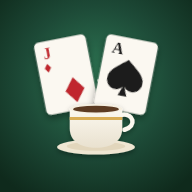
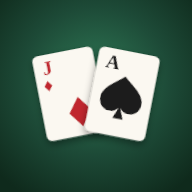
Kartat ma te mdha, 5 stile zanash, ikona pa kafe

Changed region(s): [[0.1562, 0.1562, 0.8438, 0.8125]]

diff --git a/index.html b/index.html
@@ -28,7 +28,7 @@
   --paper:#f5eedd; --paper-ink:#221d14; --paper-line:#d9ccb0; --paper-muted:#6f644d; --danger:#a3141e;
   --ui:'Rubik', system-ui, -apple-system, sans-serif;
   --display:'Fraunces', Georgia, serif;
-  --cw: clamp(54px, 15.5vw, 92px);
+  --cw: clamp(62px, 18vw, 106px);
   --ch: calc(var(--cw) * 1.42);
   color-scheme: dark;
   /* card theme tokens (overwritten by the chosen deck) */
@@ -128,6 +128,7 @@ label.srow{cursor:pointer}
 .sw:checked::after{transform:translateX(18px)}
 .sw:focus-visible{outline:2px solid var(--paper-ink); outline-offset:2px}
 .seg{display:flex; background:#e8dec6; border-radius:999px; padding:3px; gap:2px; flex:none}
+.seg.wrap{flex-wrap:wrap; border-radius:14px; width:100%}
 .seg button{font:600 12.5px var(--ui); border:0; border-radius:999px; padding:7px 11px; background:transparent; color:var(--paper-muted); cursor:pointer}
 .seg button.on{background:var(--paper); color:var(--paper-ink); box-shadow:0 1px 3px rgba(0,0,0,.12)}
 .acc-head{display:flex; align-items:center; justify-content:space-between; gap:10px; flex-wrap:wrap; margin-bottom:10px}
@@ -512,8 +513,10 @@ table.tally{width:100%; border-collapse:collapse; font-variant-numeric:tabular-n
 
     <div class="sgroup">
       <h3>Zëri</h3>
-      <label class="srow" for="sSound"><span><b>Tingujt</b><small>Kartat, çipat, radha jote</small></span><input type="checkbox" class="sw" id="sSound"></label>
+      <label class="srow" for="sSound"><span><b>Tingujt</b><small>Kartat, radha jote</small></span><input type="checkbox" class="sw" id="sSound"></label>
       <div class="srow"><label for="sVol"><b>Volumi</b></label><input type="range" id="sVol" min="0" max="100" step="5"></div>
+      <div class="srow"><span><b>Stili i tingujve</b><small>Si tingëllojnë kartat</small></span></div>
+      <div class="seg wrap" id="sSoundStyle" role="radiogroup" aria-label="Stili i tingujve"></div>
     </div>
 
     <div class="sgroup">
@@ -644,20 +647,38 @@ window.addEventListener('offline', () => { NET.net = false; if (APP.screen==='ga
 window.addEventListener('online', () => { NET.net = true; if (APP.screen==='game') render(); toast('Lidhja me internetin u rikthye.'); });
 
 /* ================= settings ================= */
-const SET = {sound:true, vol:70, hints:true, anim:true, level:'normal', rounds:5};
+const SET = {sound:true, vol:70, soundStyle:'classic', hints:true, anim:true, level:'normal', rounds:5};
 try{ Object.assign(SET, JSON.parse(localStorage.getItem('pishpirik-settings')||'{}')); }catch(e){}
 function saveSet(){ try{ localStorage.setItem('pishpirik-settings', JSON.stringify(SET)); }catch(e){} }
+function buildSoundStyles(){
+  $('sSoundStyle').replaceChildren(...SND_STYLES.map(s=>{
+    const b=document.createElement('button'); b.type='button'; b.textContent=s.nm; b.dataset.v=s.id; b.setAttribute('role','radio');
+    b.onclick=()=>{ SET.soundStyle=s.id; saveSet(); syncSetUI(); sfx.deal(); };
+    return b;
+  }));
+}
 function syncSetUI(){
   $('sSound').checked = SET.sound; $('sVol').value = SET.vol; $('sVol').disabled = !SET.sound;
   $('sHints').checked = SET.hints; $('sAnim').checked = SET.anim;
   document.querySelectorAll('#sLevel button').forEach(b=>{ const on=b.dataset.v===SET.level; b.classList.toggle('on', on); b.setAttribute('aria-checked', on); });
+  document.querySelectorAll('#sSoundStyle button').forEach(b=>{ const on=b.dataset.v===SET.soundStyle; b.classList.toggle('on', on); b.setAttribute('aria-checked', on); });
 }
 function openSettings(){ syncSetUI(); renderAccount(); $('setOv').hidden=false; }
 
 /* ================= sounds: real card physics, synthesised (no files) =================
    Every sound is built from filtered noise the way paper cards actually sound:
-   a sharp paper "snap" on top, a muffled thud of the felt underneath, a soft slide before it. */
-const SND = {ctx:null, out:null, bus:null, noise:null};
+   a sharp paper "snap" on top, a muffled thud of the felt underneath, a soft slide before it.
+   SND_STYLES reshapes the same physics into 5 different characters, so there's no separate
+   sound design to keep in sync — each style is just the master filter, room and pitch changed. */
+const SND_STYLES = [
+  {id:'classic', nm:'Klasike',  pitch:1,    bright:7000,  room:.14, gain:1},
+  {id:'soft',    nm:'Të buta',  pitch:.86,  bright:3400,  room:.24, gain:.85},
+  {id:'crisp',   nm:'Kristal',  pitch:1.18, bright:12000, room:.07, gain:1.05},
+  {id:'arcade',  nm:'Arkade',   pitch:1.34, bright:9500,  room:.025, gain:1.15},
+  {id:'quiet',   nm:'Minimale', pitch:.97,  bright:5200,  room:.05, gain:.55},
+];
+const sndStyle = () => SND_STYLES.find(s=>s.id===SET.soundStyle) || SND_STYLES[0];
+const SND = {ctx:null, out:null, bus:null, noise:null, felt:null, wet:null, pitch:1, gain:1};
 function ac(){
   if (!SET.sound || !SET.vol) return null;
   try{
@@ -671,17 +692,22 @@ function ac(){
       SND.out = c.createGain();
       const comp = c.createDynamicsCompressor(); comp.threshold.value=-14; comp.ratio.value=4;
       const felt = c.createBiquadFilter(); felt.type='lowpass'; felt.frequency.value=7000; felt.Q.value=.5;
+      SND.felt = felt;
       SND.bus = c.createGain();
       const room = c.createConvolver(), irLen = Math.floor(c.sampleRate*.28);
       const ir = c.createBuffer(2, irLen, c.sampleRate);
       for (let ch=0; ch<2; ch++){ const x=ir.getChannelData(ch); for (let i=0;i<irLen;i++) x[i]=(Math.random()*2-1)*Math.pow(1-i/irLen, 3.2); }
       room.buffer = ir;
       const wet = c.createGain(); wet.gain.value = .14;
+      SND.wet = wet;
       SND.bus.connect(felt); felt.connect(comp);
       SND.bus.connect(room); room.connect(wet); wet.connect(comp);
       comp.connect(SND.out); SND.out.connect(c.destination);
     }
     if (SND.ctx.state==='suspended') SND.ctx.resume();
+    const st = sndStyle();
+    SND.felt.frequency.value = st.bright; SND.wet.gain.value = st.room;
+    SND.pitch = st.pitch; SND.gain = st.gain;
     SND.out.gain.value = Math.pow(SET.vol/100, 1.4) * 1.1;
     return SND.ctx;
   }catch(e){ return null; }
@@ -690,13 +716,13 @@ const rnd = (a,b) => a + Math.random()*(b-a);
 // one burst of filtered noise with attack/decay envelope
 function grain(c, t, {type='bandpass', f=2000, f2=null, q=.8, att=.002, dec=.04, g=.5, pan=0}){
   const src = c.createBufferSource(); src.buffer = SND.noise;
-  src.playbackRate.value = rnd(.85, 1.15);
+  src.playbackRate.value = rnd(.85, 1.15) * SND.pitch;
   const flt = c.createBiquadFilter(); flt.type = type; flt.Q.value = q;
-  flt.frequency.setValueAtTime(f, t);
-  if (f2) flt.frequency.exponentialRampToValueAtTime(f2, t+att+dec);
+  flt.frequency.setValueAtTime(f * SND.pitch, t);
+  if (f2) flt.frequency.exponentialRampToValueAtTime(f2 * SND.pitch, t+att+dec);
   const env = c.createGain();
   env.gain.setValueAtTime(0.0001, t);
-  env.gain.exponentialRampToValueAtTime(g, t+att);
+  env.gain.exponentialRampToValueAtTime(g * SND.gain, t+att);
   env.gain.exponentialRampToValueAtTime(0.0001, t+att+dec);
   let node = env;
   if (c.createStereoPanner && pan){ const p=c.createStereoPanner(); p.pan.value=pan; env.connect(p); node=p; }
@@ -706,8 +732,9 @@ function grain(c, t, {type='bandpass', f=2000, f2=null, q=.8, att=.002, dec=.04,
 // a low "knock" of a card or knuckle meeting the table
 function thud(c, t, g=.4, f=110){
   const o=c.createOscillator(), e=c.createGain();
+  f *= SND.pitch;
   o.type='sine'; o.frequency.setValueAtTime(f*1.6, t); o.frequency.exponentialRampToValueAtTime(f, t+.04);
-  e.gain.setValueAtTime(0.0001,t); e.gain.exponentialRampToValueAtTime(g, t+.003); e.gain.exponentialRampToValueAtTime(0.0001, t+.09);
+  e.gain.setValueAtTime(0.0001,t); e.gain.exponentialRampToValueAtTime(g * SND.gain, t+.003); e.gain.exponentialRampToValueAtTime(0.0001, t+.09);
   o.connect(e); e.connect(SND.bus); o.start(t); o.stop(t+.12);
 }
 // a card landing on the felt: short slide, paper snap, soft body
@@ -1650,6 +1677,7 @@ document.addEventListener('keydown',e=>{ if(e.key==='Escape'){ if(!$('rulesOv').
 
 buildTiles();
 buildChat();
+buildSoundStyles();
 initFan();
 loadRemembered();
 syncSetUI();
